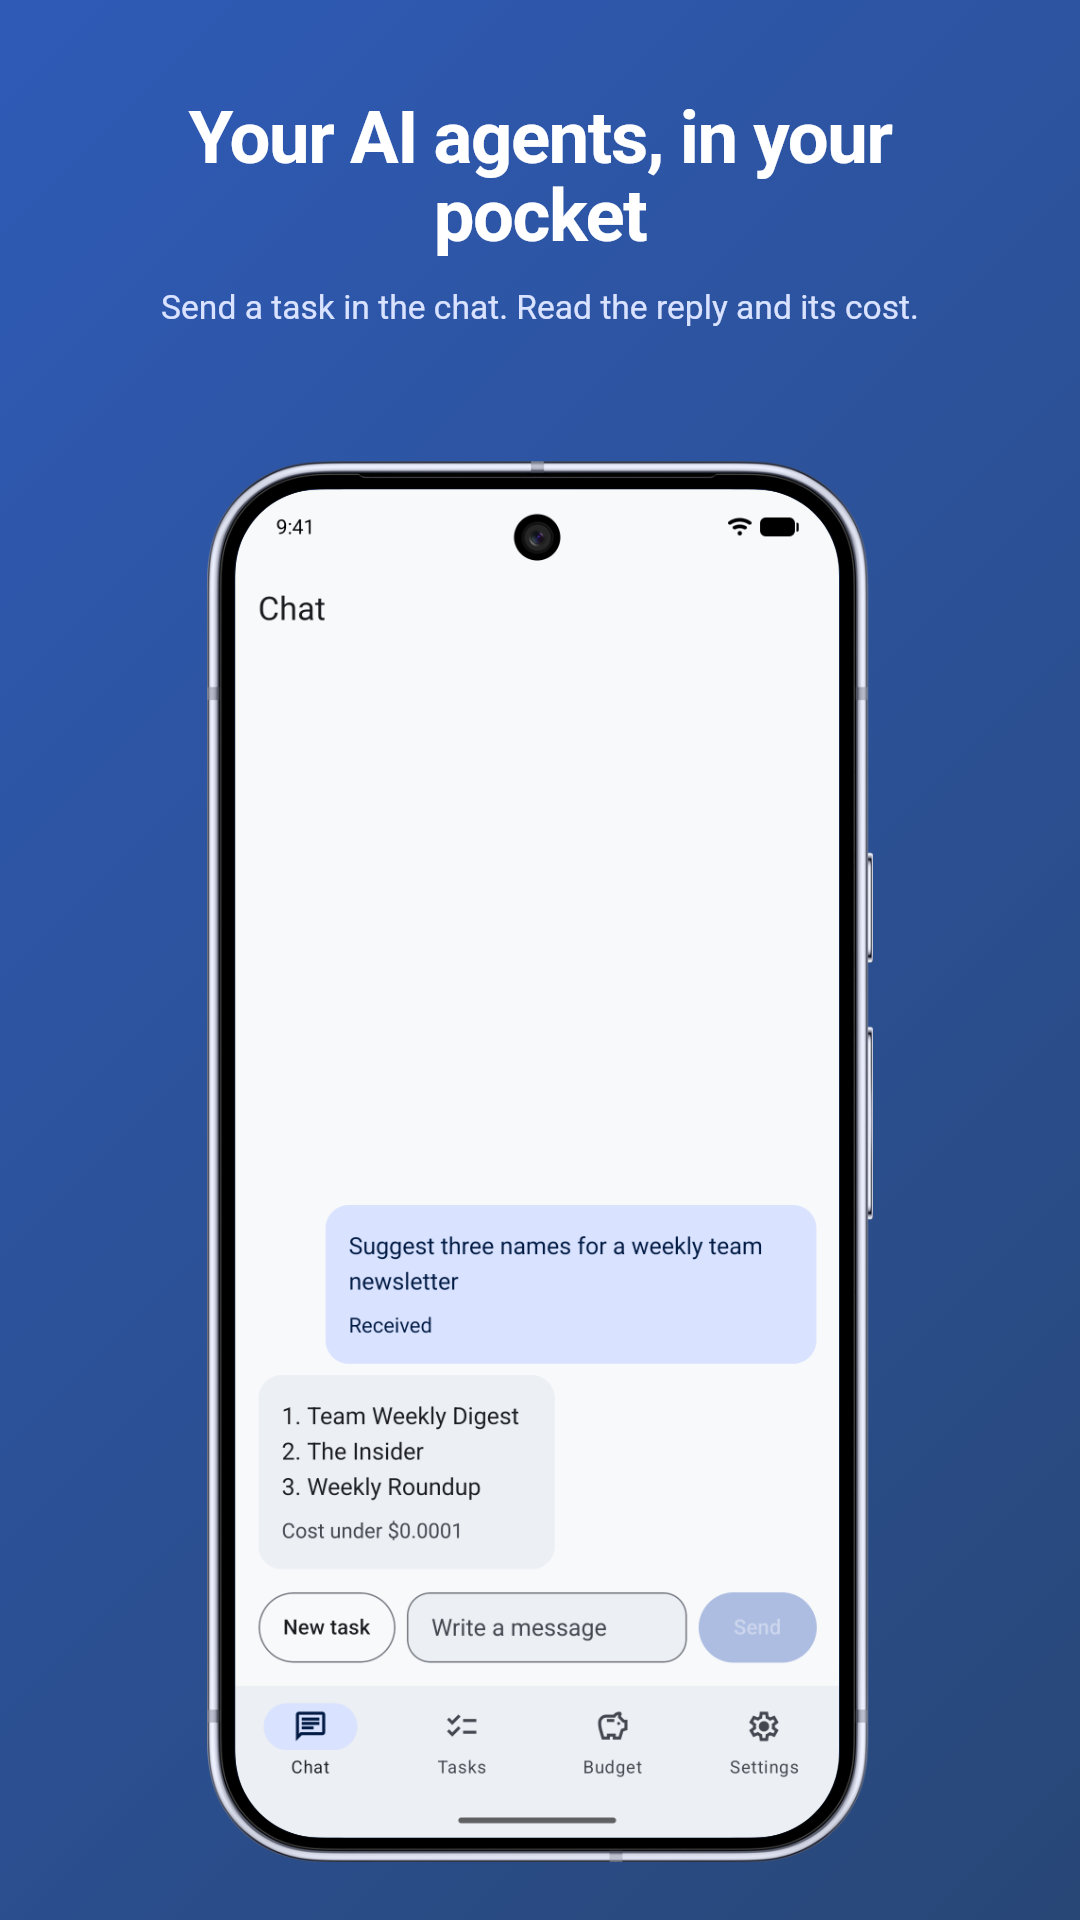
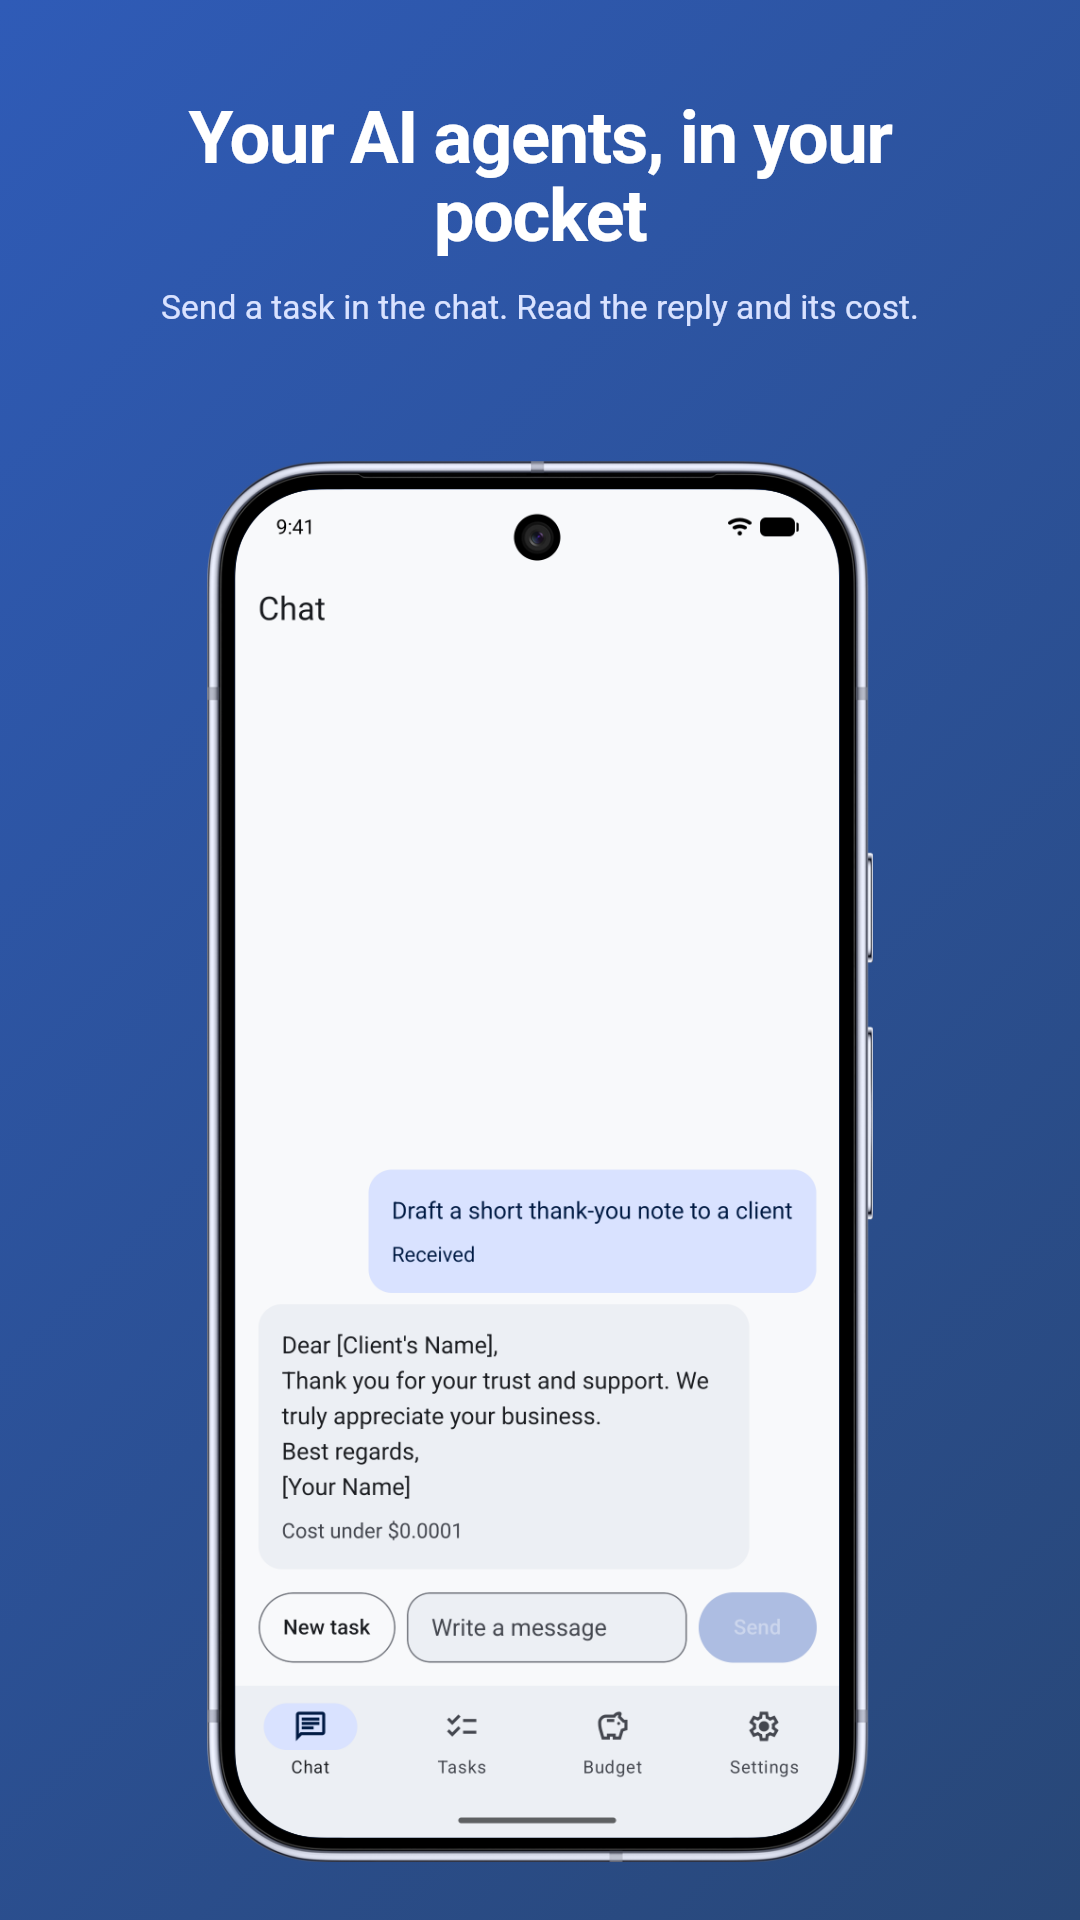
fix: clean task list in the screenshots and stable screenshot flows
The Tasks screenshot no longer shows a cut task title or a repeated task.
The flows clear the app data with clear-app.mjs on the Pixel_10_Pro_Store
emulator only, so they need no absolute APK path. The release guide
adds chmod 600, ln -sf, the Taseen condition, and a full undo step.

Changed region(s): [[0.2444, 0.5938, 0.7639, 0.7812]]

diff --git a/docs/release.md b/docs/release.md
@@ -82,24 +82,26 @@ task (less than 0.0001 USD).
 1. Build the release APK in this clone:
    `npx expo prebuild --platform android --no-install`, then
    `cd android && ./gradlew :app:assembleRelease -PreactNativeArchitectures=x86_64`.
-2. Put the owner login in `.argent/secrets.env` (gitignored), mode 600:
+2. Put the owner login in `.argent/secrets.env` (gitignored):
    ```
    FAMA_USER=<user name>
    FAMA_PASSWORD=<password>
    ```
-   Link it for the argent tool server:
-   `ln -s "$PWD/.argent/secrets.env" ~/.argent/secrets.env`.
+   Then `chmod 600 .argent/secrets.env`, and link it for the argent tool
+   server: `ln -sf "$PWD/.argent/secrets.env" ~/.argent/secrets.env`.
 3. Prepare the emulator:
    ```
    adb shell locksettings set-pin 1111
    adb shell settings put secure stylus_handwriting_enabled 0
    adb shell svc power stayon true
-   adb shell pm revoke app.taseen android.permission.POST_NOTIFICATIONS
+   adb shell pm revoke app.taseen android.permission.POST_NOTIFICATIONS   # only if Taseen is installed
    ```
-   The PIN removes the "no screen lock" warning from Settings. With
-   stylus handwriting on, the field taps start handwriting and the
-   password can go into the user name field. The last line removes the
-   Taseen icons from the status bar.
+   The flows clear the app data with `.argent/flows/clear-app.mjs`, which
+   acts only on the `Pixel_10_Pro_Store` emulator. The PIN removes the
+   "no screen lock" warning from Settings. With stylus handwriting on, the
+   field taps start handwriting and the password can go into the user
+   name field. The last line removes the Taseen icons from the status
+   bar.
 4. Change the chat text in `store-01-chat.yaml`, so the Tasks list does
    not repeat a task. Then:
    ```
@@ -107,8 +109,14 @@ task (less than 0.0001 USD).
    npx -y goldie@0 capture && npx -y goldie@0 frame && npx -y goldie@0 verify
    cp goldie/out/screenshots/pixel-10-pro/en-US/0*.png play-store-assets/phone-screenshots/
    ```
-5. Undo step 3: `adb shell pm grant app.taseen android.permission.POST_NOTIFICATIONS`,
-   `adb shell svc power stayon false`, `adb shell locksettings clear --old 1111`.
+5. Undo steps 2 and 3:
+   ```
+   rm ~/.argent/secrets.env
+   adb shell pm grant app.taseen android.permission.POST_NOTIFICATIONS   # only if Taseen is installed
+   adb shell settings put secure stylus_handwriting_enabled 1
+   adb shell svc power stayon false
+   adb shell locksettings clear --old 1111
+   ```
 
 ### Rename from ai.famashines
 
